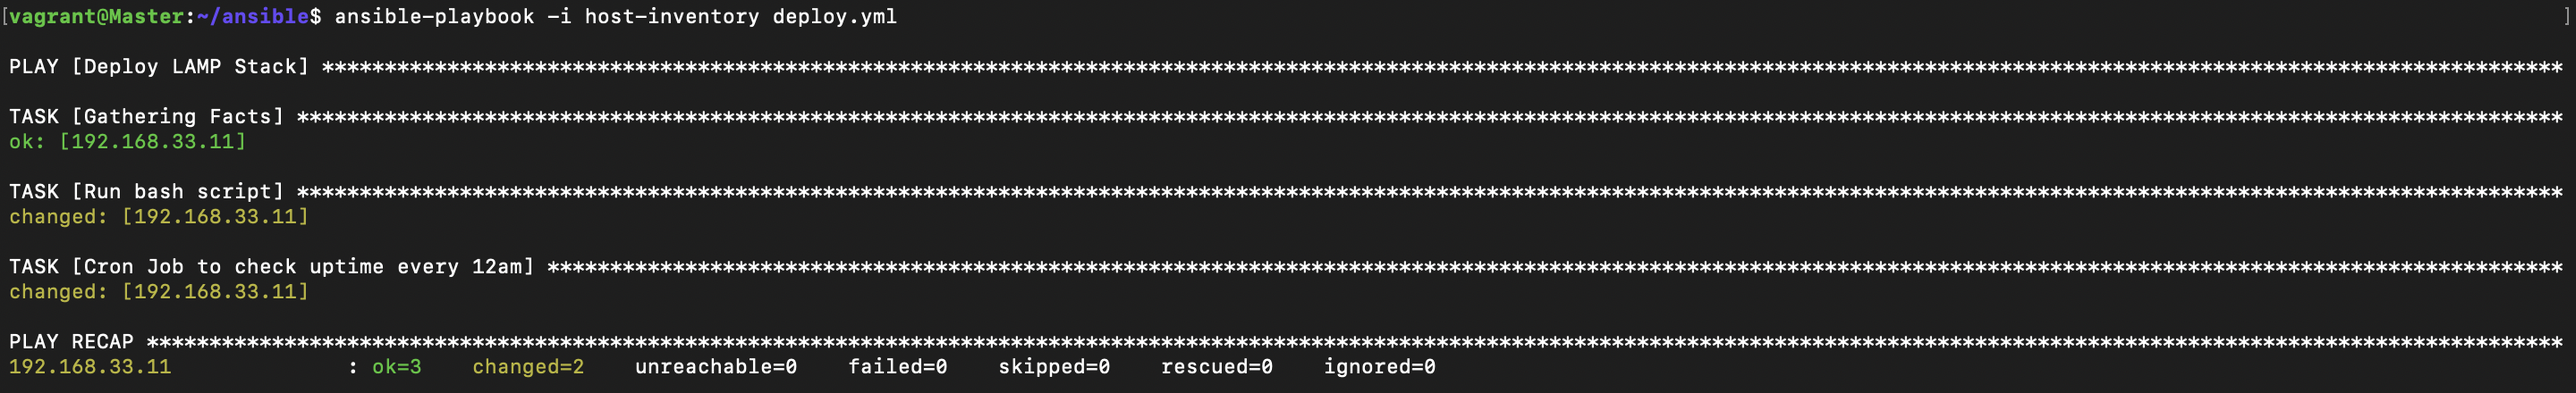
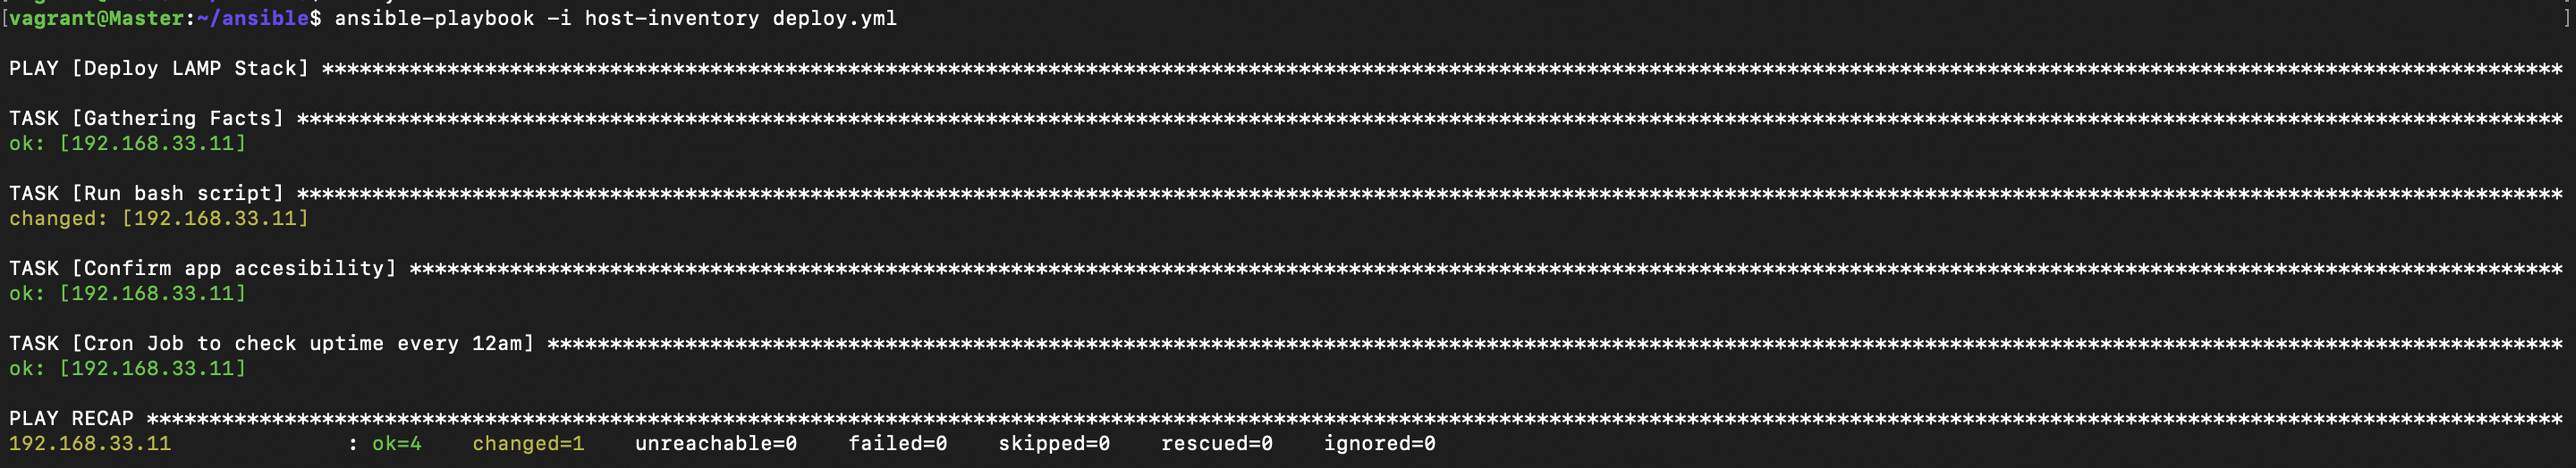
uu

diff --git a/README.md b/README.md
@@ -288,7 +288,7 @@ As seen in the image above, the configuration of the vagrantfile is set to provi
 
 ![Ansible Playbook](./images/playbook.png)
 
-As seen in the image above, the ansible playbook runs two tasks on my `slave` server.
+As seen in the image above, the ansible playbook runs three tasks on my `slave` server.
 
 - The first task named `Run bash script` uses the [lamp.sh](lamp.sh) bash script to deploy the LAMP stack, install all required packages and run the correct configurations on the `slave` server.
 
@@ -296,13 +296,15 @@ As seen in the image above, the ansible playbook runs two tasks on my `slave` se
 
     - The `script` module copies annd executes the script on the `Slave` node.
 
-- The second task named `Cron Job to check uptime every 12am` creates a con job that checks the server's uptime every day at 12am.
+- The second task named `Confirm app accessibility` uses the uri module to confirm if the app is accessible. It confirms that the status code of the the response is `200` whic is a successful response.
+
+- The third task named `Cron Job to check uptime every 12am` creates a con job that checks the server's uptime every day at 12am.
 
     - The state "present" ensures the cron job is created.
     
     - The configuration `minute: "0"`, `hour: "0"`, `day: "*"`, `month:  "*"`, `weekday:"*"` sets the cron job to run at minute 0 of the first hour of everyday  of every month, which translates to everyday at 12am.
 
-    - The job "uptime >> /var/log/salve_uptime.log" is the command used to check for a server's uptime and logs it in the file `/var/log/salve_uptime.log`.
+    - The job "uptime >> /var/log/salve_uptime.log" is the command used to check for a server's uptime and logs it in the file `/var/log/slave_uptime.log`.
 
 - My host inventory contains only the `slave` server as shown below:
 
